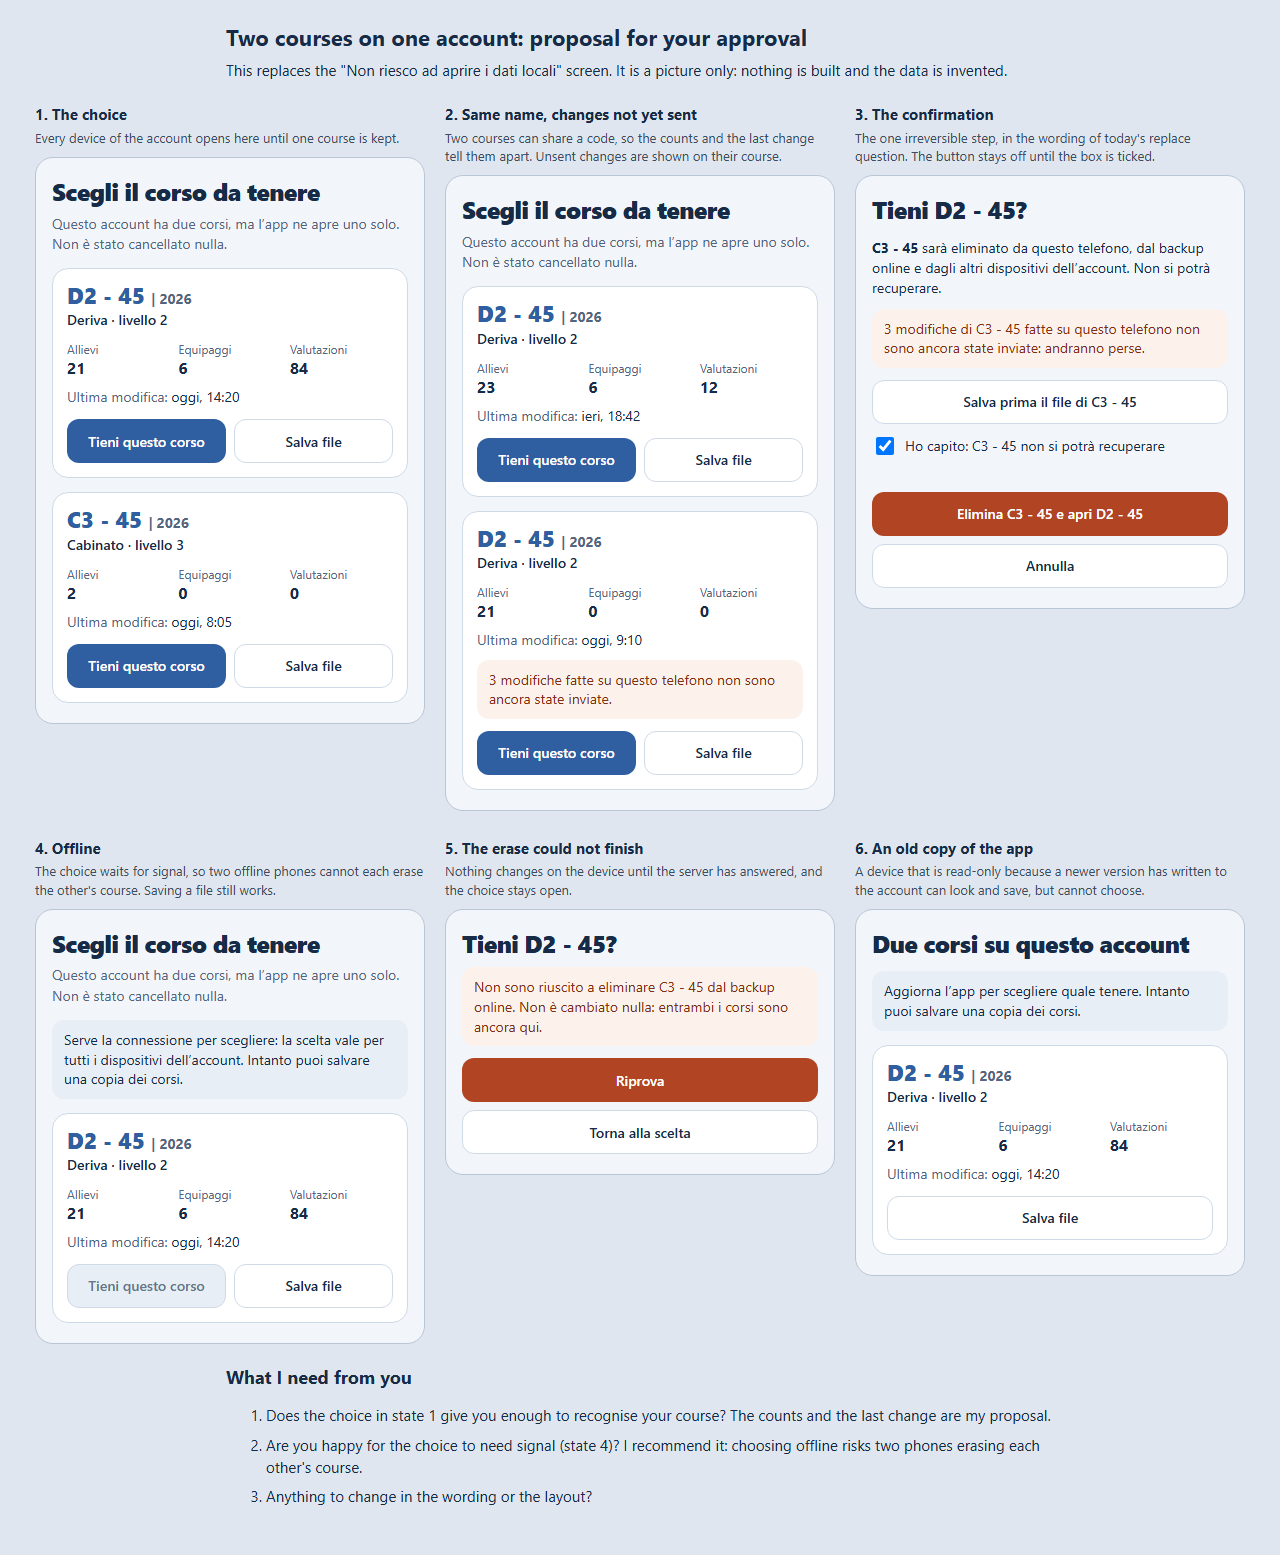
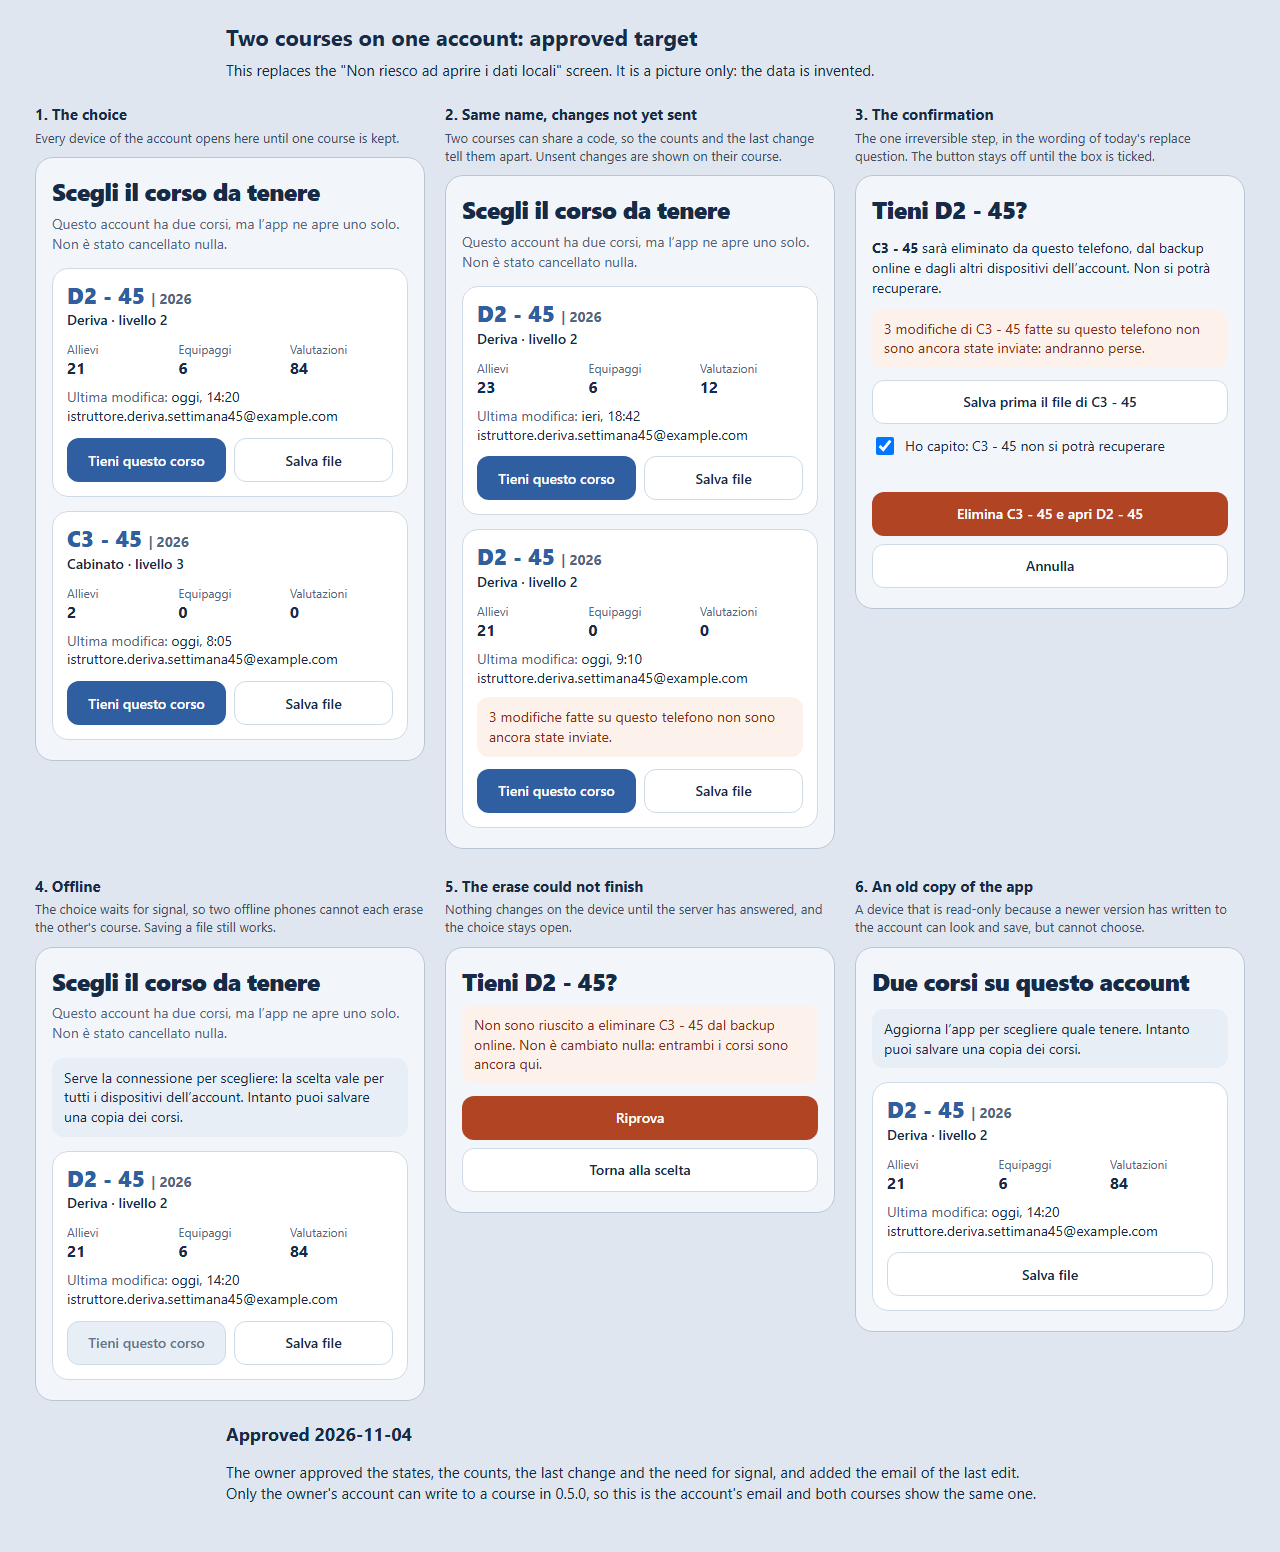
B7: the owner approves the two-course screen, with the last edit's email
Owner decision 21. The email is the account's: only its owner can write to a
course until 1.0, so it needs no new column, and both courses show the same one.

diff --git a/docs/design/mockups/b7-two-courses.html b/docs/design/mockups/b7-two-courses.html
@@ -3,8 +3,8 @@
   <head>
     <meta charset="utf-8" />
     <meta name="viewport" content="width=device-width, initial-scale=1" />
-    <title>B7 proposal: two courses on one account</title>
-    <!-- B7 proposal, not approved and not built. It replaces the "Non riesco ad
+    <title>B7 target: two courses on one account</title>
+    <!-- B7 target, approved by the owner on 2026-11-04 with the email added; not built yet. It replaces the "Non riesco ad
          aprire i dati locali" screen for an account holding two courses.
          Static states with synthetic data; nothing here saves or erases. -->
     <style>
@@ -142,6 +142,10 @@
       .changed span {
         color: var(--muted-foreground);
       }
+      .changed .editor {
+        color: var(--foreground);
+        overflow-wrap: anywhere;
+      }
       .notice {
         margin: 10px 0 0;
         padding: 10px 12px;
@@ -242,10 +246,10 @@
   </head>
   <body>
     <header class="intro">
-      <h1>Two courses on one account: proposal for your approval</h1>
+      <h1>Two courses on one account: approved target</h1>
       <p>
         This replaces the "Non riesco ad aprire i dati locali" screen. It is a
-        picture only: nothing is built and the data is invented.
+        picture only: the data is invented.
       </p>
     </header>
 
@@ -276,7 +280,12 @@
                 <dd>84</dd>
               </div>
             </dl>
-            <p class="changed"><span>Ultima modifica:</span> oggi, 14:20</p>
+            <p class="changed">
+              <span>Ultima modifica:</span> oggi, 14:20<br />
+              <span class="editor"
+                >istruttore.deriva.settimana45@example.com</span
+              >
+            </p>
             <div class="actions">
               <button class="primary">Tieni questo corso</button>
               <button class="secondary">Salva file</button>
@@ -299,7 +308,12 @@
                 <dd>0</dd>
               </div>
             </dl>
-            <p class="changed"><span>Ultima modifica:</span> oggi, 8:05</p>
+            <p class="changed">
+              <span>Ultima modifica:</span> oggi, 8:05<br />
+              <span class="editor"
+                >istruttore.deriva.settimana45@example.com</span
+              >
+            </p>
             <div class="actions">
               <button class="primary">Tieni questo corso</button>
               <button class="secondary">Salva file</button>
@@ -337,7 +351,12 @@
                 <dd>12</dd>
               </div>
             </dl>
-            <p class="changed"><span>Ultima modifica:</span> ieri, 18:42</p>
+            <p class="changed">
+              <span>Ultima modifica:</span> ieri, 18:42<br />
+              <span class="editor"
+                >istruttore.deriva.settimana45@example.com</span
+              >
+            </p>
             <div class="actions">
               <button class="primary">Tieni questo corso</button>
               <button class="secondary">Salva file</button>
@@ -360,7 +379,12 @@
                 <dd>0</dd>
               </div>
             </dl>
-            <p class="changed"><span>Ultima modifica:</span> oggi, 9:10</p>
+            <p class="changed">
+              <span>Ultima modifica:</span> oggi, 9:10<br />
+              <span class="editor"
+                >istruttore.deriva.settimana45@example.com</span
+              >
+            </p>
             <p class="notice">
               3 modifiche fatte su questo telefono non sono ancora state
               inviate.
@@ -441,7 +465,12 @@
                 <dd>84</dd>
               </div>
             </dl>
-            <p class="changed"><span>Ultima modifica:</span> oggi, 14:20</p>
+            <p class="changed">
+              <span>Ultima modifica:</span> oggi, 14:20<br />
+              <span class="editor"
+                >istruttore.deriva.settimana45@example.com</span
+              >
+            </p>
             <div class="actions">
               <button disabled>Tieni questo corso</button>
               <button class="secondary">Salva file</button>
@@ -498,7 +527,12 @@
                 <dd>84</dd>
               </div>
             </dl>
-            <p class="changed"><span>Ultima modifica:</span> oggi, 14:20</p>
+            <p class="changed">
+              <span>Ultima modifica:</span> oggi, 14:20<br />
+              <span class="editor"
+                >istruttore.deriva.settimana45@example.com</span
+              >
+            </p>
             <div class="actions">
               <button class="secondary">Salva file</button>
             </div>
@@ -508,18 +542,13 @@
     </main>
 
     <section class="questions">
-      <h2>What I need from you</h2>
-      <ol>
-        <li>
-          Does the choice in state 1 give you enough to recognise your course?
-          The counts and the last change are my proposal.
-        </li>
-        <li>
-          Are you happy for the choice to need signal (state 4)? I recommend it:
-          choosing offline risks two phones erasing each other's course.
-        </li>
-        <li>Anything to change in the wording or the layout?</li>
-      </ol>
+      <h2>Approved 2026-11-04</h2>
+      <p>
+        The owner approved the states, the counts, the last change and the need
+        for signal, and added the email of the last edit. Only the owner's
+        account can write to a course in 0.5.0, so this is the account's email
+        and both courses show the same one.
+      </p>
     </section>
   </body>
 </html>

diff --git a/docs/working/OWNER_DECISIONS.md b/docs/working/OWNER_DECISIONS.md
@@ -136,3 +136,10 @@ tutti i dati locali` erases the course from the backup first; without
     review (its three rounds stay in `.evidence/B4/`), 0.5.3 is published, and
     B7 fixes it before UG4. Until then, no course on a second device while the
     first is offline or already has one.
+21. **The two-course screen (yours, 2026-11-04).** You approved the mock
+    `docs/design/mockups/b7-two-courses.html` and added the email of the last
+    edit beside its date and time. Choosing a course needs signal; saving a file
+    does not. Taken for now: the email shown is the account's, which is true
+    because only the owner's account can write to a course until 1.0, and needs
+    no new column or migration. Both courses therefore show the same email. A
+    record of who made each edit belongs with team writing.

diff --git a/04_IMPLEMENTATION_PLAN.md b/04_IMPLEMENTATION_PLAN.md
@@ -146,7 +146,9 @@ with two courses, and any other route to that state does the same (review
 SC-DT-9). Today every device of the account then stops on "Non riesco ad aprire
 i dati locali" with only Riprova, and Impostazioni, Esci, export and reset are
 out of reach. The app shows both courses and the owner chooses which to keep;
-it never erases one by itself. The owner approves a mock before it is built.
+it never erases one by itself. Target: `docs/design/mockups/b7-two-courses.html`,
+approved by the owner (decision 21): counts, last change with the account's
+email, and a choice that needs signal.
 
 **Success predicate:** an account holding two courses never locks a device: the
 owner can see both, export either and keep one, and afterwards every device of
